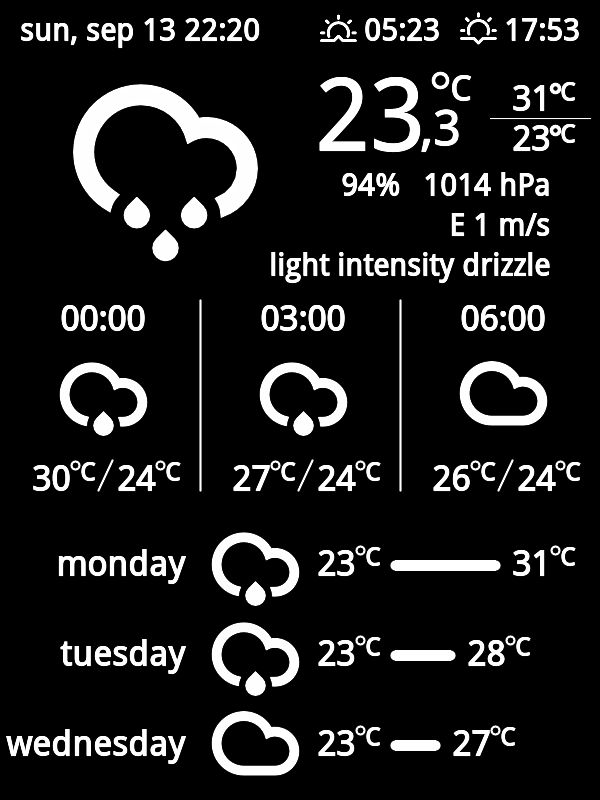
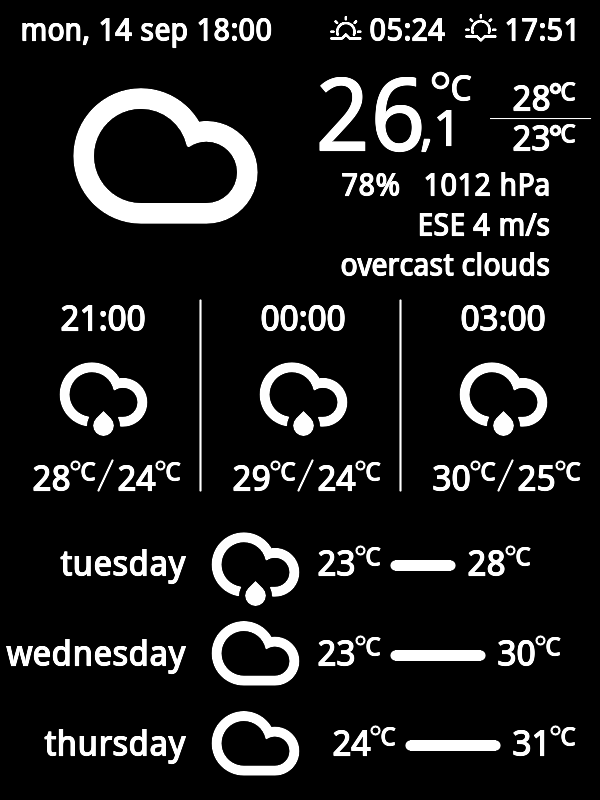
update

diff --git a/host-server/var/lib/kindle-weather-host/createSVG.py b/host-server/var/lib/kindle-weather-host/createSVG.py
@@ -288,17 +288,17 @@ def add_head():
         t_sunset = str(datetime.fromtimestamp(curt_weather[12], tz).strftime("%H:%M"))
 
         # localtime
-        maintenant = (str.lower(datetime.fromtimestamp(curt_time, tz).strftime("%a, %b %d %H:%M")))
+        maintenant = (str.lower(datetime.fromtimestamp(curt_time, tz).strftime("%a, %d %b %H:%M")))
         s = '<text style="text-anchor:start;" font-size="30px" x="20" y="40">' + maintenant + '</text>\n'
 
         if ("getSunrise" in dir(extraicon)) == True and ("getSunset" in dir(extraicon)) == True:
             # text
-            s += '<text style="text-anchor:end;" font-size="30px" x="440" y="' + str(40) + '">' + t_sunrise + '</text>\n'
+            s += '<text style="text-anchor:end;" font-size="30px" x="445" y="' + str(40) + '">' + t_sunrise + '</text>\n'
             s += '<text style="text-anchor:end;" font-size="30px" x="580" y="' + str(40) + '">' + t_sunset + '</text>\n'
 
             # icon
-            s += '<g transform="matrix(0.07,0,0,0.07,320,' + str(10) + ')">' + extraicon.getSunrise() + '</g>\n'
-            s += '<g transform="matrix(0.07,0,0,0.07,460,' + str(10) + ')">' + extraicon.getSunset() + '</g>\n'
+            s += '<g transform="matrix(0.06,0,0,0.06,330,' + str(12) + ')">' + extraicon.getSunrise() + '</g>\n'
+            s += '<g transform="matrix(0.06,0,0,0.06,465,' + str(12) + ')">' + extraicon.getSunset() + '</g>\n'
         else:
             s += '<text style="text-anchor:end;" font-size="30px" x="580" y="' + str(40) + '">'
             s += 'daytime: ' + t_sunrise + ' - ' + t_sunset + '</text>\n'
@@ -591,18 +591,22 @@ svg_file.close()
 
 
 # image processing
-
-if dark_mode == 'True':
-    args = ['convert', '-size', '600x800',  '-background', 'white', '-depth', '8', '-negate', filename, pngfile]
-    output = Popen(args)
-elif dark_mode == 'Auto':
-    if curt_weather[11] > curt_time or curt_weather[12] < curt_time:
-        args = ['convert', '-size', '600x800',  '-background', 'white', '-depth', '8', '-negate', filename, pngfile]
-        output = Popen(args)
-    else:
+def displaymode(mode):
+    if mode == 'lightmode':
         args = ['convert', '-size', '600x800',  '-background', 'white', '-depth', '8', filename, pngfile]
         output = Popen(args)
+    elif mode == 'darkmode':
+        args = ['convert', '-size', '600x800',  '-background', 'white', '-depth', '8', '-negate', filename, pngfile]
+        output = Popen(args)
+
+
+if dark_mode == 'True':
+    displaymode('darkmode')
+elif dark_mode == 'Auto':
+    if curt_weather[11] > curt_time or curt_weather[12] < curt_time:
+        displaymode('darkmode')
+    else:
+        displaymode('lightmode')
 else:
-    args = ['convert', '-size', '600x800',  '-background', 'white', '-depth', '8', filename, pngfile]
-    output = Popen(args)
+    displaymode('lightmode')
 
